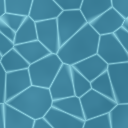
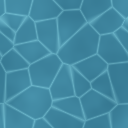
feat(homestead): 손에 든 씨앗, 낚싯줄, 묵은 밭, 다 된 공사는 칸을 비움
origin: 吏곸젒 洹몃┝ (肄붾뱶 ?앹꽦)

diff --git a/Assets/_WitchMendokusai/Domain/Homestead/Stage/VillageStage.Fields.cs b/Assets/_WitchMendokusai/Domain/Homestead/Stage/VillageStage.Fields.cs
@@ -60,6 +60,7 @@ namespace WitchMendokusai
 		private sealed class PlotView
 		{
 			public GameObject Spot;
+			public GameObject Wild;
 			public GameObject Dry;
 			public GameObject Wet;
 			public HomesteadSprite Crop;
@@ -106,12 +107,26 @@ namespace WitchMendokusai
 				int index = i;
 				Vector3 position = PlotPosition(i);
 				PlotView view = new();
+				view.Wild = WildBody(i).Build("PlotWild", outdoor, position, index * 47f % 20f - 10f, castShadow: false);
 				view.Dry = PlotBody(new Color(1f, 0.92f, 0.82f)).Build("Plot", outdoor, position, index * 47f % 20f - 10f, castShadow: false);
 				view.Wet = PlotBody(new Color(0.62f, 0.56f, 0.56f)).Build("PlotWet", outdoor, position, index * 47f % 20f - 10f, castShadow: false);
 				view.Crop = HomesteadSprite.Create(outdoor, position + Vector3.up * 0.14f, null, 1f);
 				view.Spot = HomesteadSpot.Create(outdoor, position, "PlotSpot", () => PlotName(index), () => PlotRole(index), () => UsePlot(index)).gameObject;
 				plots.Add(view);
 			}
+		}
+
+		// 아직 안 간 땅. 낮은 흙에 잡초 몇 포기
+		private static VillageKit WildBody(int seed)
+		{
+			VillageKit kit = new();
+			kit.Prism(Art.Soil, new Color(0.86f, 0.9f, 0.7f), new Vector3(0f, -0.05f, 0f), new Vector3(1.6f, 0.08f, 1.45f), 9, 0.9f);
+			for (int i = 0; i < 4; i++)
+			{
+				float angle = seed * 1.3f + i * 1.7f;
+				kit.Prism(Art.Leaf, new Color(0.9f, 1f, 0.72f), new Vector3(Mathf.Cos(angle) * 0.45f, 0f, Mathf.Sin(angle) * 0.4f), new Vector3(0.2f, 0.16f, 0.2f), 6, 0.2f);
+			}
+			return kit;
 		}
 
 		// 도톰한 이랑 셋. 네모 칸이 아니라 두둑으로 읽히게
@@ -138,7 +153,7 @@ namespace WitchMendokusai
 			switch (Sim.PhaseOf(plot))
 			{
 				case PlotPhase.Empty:
-					return "심기";
+					return CanSowHeld ? $"{Catalog.Get<CropDef>(heldCrop).Name} 심기" : "씨앗 고르기";
 				case PlotPhase.Ripe:
 					return "거두기";
 				default:
@@ -175,7 +190,10 @@ namespace WitchMendokusai
 			switch (Sim.PhaseOf(plot))
 			{
 				case PlotPhase.Empty:
-					AskSeed(index);
+					if (CanSowHeld)
+						Sow(index, heldCrop);
+					else
+						AskSeed(index);
 					break;
 				case PlotPhase.Ripe:
 					if (Report(Sim.Harvest(index, manager.Season)))
@@ -193,12 +211,37 @@ namespace WitchMendokusai
 			}
 		}
 
+		// 한 번 고른 씨앗은 손에 남아 다음 칸에 바로 심음. 바꾸려면 텃밭 창고에서
+		private string heldCrop = string.Empty;
+
+		private bool CanSowHeld => heldCrop.Length > 0 && Sim.Count(Catalog.Get<CropDef>(heldCrop).Seed) > 0;
+
+		private void Sow(int index, string cropId)
+		{
+			if (Report(Sim.Plant(index, cropId)) == false)
+				return;
+			UiSfx.Play(UiSfxEvent.Confirm);
+			StartCoroutine(Pop(plots[index].Dry.transform));
+		}
+
 		private void AskSeed(int index)
 		{
 			manager.Panels.Seeds.Ask(cropId =>
 			{
-				if (Report(Sim.Plant(index, cropId)))
-					manager.Panels.ClosePanel();
+				heldCrop = cropId;
+				manager.Panels.ClosePanel();
+				Sow(index, cropId);
+			});
+			manager.Panels.Show(HomesteadPanelType.Seeds);
+		}
+
+		private void ChooseSeed()
+		{
+			manager.Panels.Seeds.Ask(cropId =>
+			{
+				heldCrop = cropId;
+				manager.Panels.ClosePanel();
+				Say($"{Catalog.Get<CropDef>(cropId).Name} 씨앗을 듭니다.");
 			});
 			manager.Panels.Show(HomesteadPanelType.Seeds);
 		}
@@ -223,6 +266,7 @@ namespace WitchMendokusai
 				PlotView view = plots[i];
 				bool open = i < Sim.State.Plots.Count;
 				view.Spot.SetActive(open);
+				view.Wild.SetActive(open && Sim.State.Plots[i].Tilled == false);
 				if (open == false)
 				{
 					view.Dry.SetActive(false);

diff --git a/Assets/_WitchMendokusai/Domain/Homestead/Stage/VillageStage.Water.cs b/Assets/_WitchMendokusai/Domain/Homestead/Stage/VillageStage.Water.cs
@@ -10,6 +10,7 @@ namespace WitchMendokusai
 		private const string POND = "pond";
 		private const string STREAM = "stream";
 		private const int STREAM_DOCK_LEVEL = 2;
+		private const int LINE_POINTS = 10;
 
 		[Header("Water")]
 		[SerializeField] private Vector2 waterFlow = new(0.012f, 0.02f);
@@ -21,6 +22,9 @@ namespace WitchMendokusai
 		[SerializeField] private Vector3 streamSpot = new(24.4f, 0f, -1.4f);
 		[SerializeField] private float resultSeconds = 1.6f;
 		[SerializeField] private float floatHeight = 0.5f;
+		[SerializeField] private float lineWidth = 0.02f;
+		[SerializeField] private float lineSag = 0.5f;
+		[SerializeField] private Vector3 rodTip = new(0.4f, 0.9f, 0f);
 
 		private Material waterMaterial;
 		private FishingDuel duel;
@@ -28,6 +32,7 @@ namespace WitchMendokusai
 		private bool reelHeld;
 		private float resultTimer;
 		private HomesteadSprite bobber;
+		private LineRenderer fishingLine;
 		private GameObject streamSpotObject;
 
 		private void BuildWater()
@@ -65,6 +70,12 @@ namespace WitchMendokusai
 			capsule.height = pondRadius * 2f + 4f;
 			bobber = HomesteadSprite.Create(outdoor, pondCenter, Art.Icon("bobber"), floatHeight, 0.05f);
 			bobber.gameObject.SetActive(false);
+			fishingLine = new GameObject("FishingLine").AddComponent<LineRenderer>();
+			fishingLine.transform.SetParent(outdoor, false);
+			fishingLine.sharedMaterial = Art.Cloth;
+			fishingLine.widthMultiplier = lineWidth;
+			fishingLine.positionCount = LINE_POINTS;
+			fishingLine.enabled = false;
 			streamSpotObject = HomesteadSpot.Create(outdoor, streamSpot, "StreamSpot", () => "개울", () => "낚시", () => StartFishing(STREAM)).gameObject;
 		}
 
@@ -123,7 +134,10 @@ namespace WitchMendokusai
 			inputManager.UnregisterInputEvent(InputEventType.Submit, InputEventResponseType.Canceled, ReleaseReel);
 			inputManager.UnregisterInputEvent(InputEventType.Cancel, InputEventResponseType.Performed, StopFishing);
 			if (bobber != null)
+			{
 				bobber.gameObject.SetActive(false);
+				fishingLine.enabled = false;
+			}
 			manager.Hud.ShowDuel(false);
 		}
 
@@ -138,6 +152,7 @@ namespace WitchMendokusai
 					StopFishing();
 				return;
 			}
+			DrawLine();
 			FishingPhase before = duel.Phase;
 			bool reeling = reelHeld || inputManager.IsMouseLeftButtonPressed;
 			if (inputManager.IsMouseLeftButtonPressed && duel.Phase == FishingPhase.Bite)
@@ -151,6 +166,20 @@ namespace WitchMendokusai
 			}
 			if (duel.IsOver)
 				FinishFishing();
+		}
+
+		// 팽팽할수록 곧게
+		private void DrawLine()
+		{
+			fishingLine.enabled = true;
+			Vector3 from = playerProvider.CurrentObject.transform.position + rodTip;
+			Vector3 to = bobber.transform.position + Vector3.up * floatHeight * 0.8f;
+			float sag = lineSag * (1f - duel.Tension);
+			for (int i = 0; i < LINE_POINTS; i++)
+			{
+				float ratio = i / (LINE_POINTS - 1f);
+				fishingLine.SetPosition(i, Vector3.Lerp(from, to, ratio) + Vector3.down * (Mathf.Sin(ratio * Mathf.PI) * sag));
+			}
 		}
 
 		private void FinishFishing()

diff --git a/Assets/_WitchMendokusai/Domain/Homestead/Stage/VillageStage.Sites.cs b/Assets/_WitchMendokusai/Domain/Homestead/Stage/VillageStage.Sites.cs
@@ -61,7 +61,36 @@ namespace WitchMendokusai
 				return Sim.IsWorkDone(work) ? "가림막 걷기" : $"공사 중 {HomesteadText.Minutes(work.ReadyAt - Sim.State.Minutes)}";
 			if (Sim.IsBuilt(id) == false)
 				return "무너진 자리";
-			return Sim.IsOpen(id) ? "쓰기" : "맡을 사람을 기다림";
+			return Sim.IsOpen(id) ? VerbOf(id) : "맡을 사람을 기다림";
+		}
+
+		private static string VerbOf(string id)
+		{
+			switch (id)
+			{
+				case "farm":
+					return "씨앗 고르기";
+				case "workshop":
+					return "만들기";
+				case "dock":
+					return "낚시";
+				case "quarry":
+					return "내려가기";
+				case "museum":
+					return "기증과 손질";
+				case "tailor":
+					return "옷 고르기";
+				case "ranch":
+					return "동물 돌보기";
+				case "training":
+					return "강화";
+				case "smithy":
+					return "도구 벼리기";
+				case "shop":
+					return "사고팔기";
+				default:
+					return "둘러보기";
+			}
 		}
 
 		private void UseSite(string id)
@@ -101,7 +130,7 @@ namespace WitchMendokusai
 			switch (id)
 			{
 				case "farm":
-					manager.Panels.Show(HomesteadPanelType.Seeds);
+					ChooseSeed();
 					break;
 				case "workshop":
 					manager.Panels.Show(HomesteadPanelType.Store, StorePage.TAB_CRAFT);

diff --git a/DomainSDK/Homestead/HomesteadSim.Village.cs b/DomainSDK/Homestead/HomesteadSim.Village.cs
@@ -67,6 +67,9 @@ namespace WitchMendokusai.DomainSDK.Homestead
 
 		public bool IsWorkDone(WorkState work) => State.Minutes >= work.ReadyAt;
 
+		// 다 되고 가림막만 남은 자리는 칸을 차지하지 않음
+		public int BusyWorks => State.Works.FindAll(work => IsWorkDone(work) == false).Count;
+
 		public bool TryGetNextLevel(string buildingId, out BuildingLevelDef next)
 		{
 			List<BuildingLevelDef> levels = Catalog.Get<BuildingDef>(buildingId).Levels;
@@ -89,7 +92,7 @@ namespace WitchMendokusai.DomainSDK.Homestead
 			{
 				return HomesteadResult.Fail(HomesteadFailure.TownHallTooLow);
 			}
-			if (State.Works.Count >= WorkSlots)
+			if (BusyWorks >= WorkSlots)
 			{
 				return HomesteadResult.Fail(HomesteadFailure.Busy);
 			}

diff --git a/Assets/_WitchMendokusai/Domain/Homestead/UI/HomesteadHud.cs b/Assets/_WitchMendokusai/Domain/Homestead/UI/HomesteadHud.cs
@@ -215,6 +215,7 @@ namespace WitchMendokusai
 		{
 			goalShown = visible;
 			goal.EnableInClassList($"{BLOCK}--none", visible == false);
+			goal.userData = null;
 			RefreshGoal();
 		}
 
@@ -227,7 +228,9 @@ namespace WitchMendokusai
 				return;
 			goal.userData = key;
 			goal.Clear();
-			if (Sim.TryGetNextTownHall(out TownHallDef next) == false)
+			bool hasNext = Sim.TryGetNextTownHall(out TownHallDef next);
+			goal.EnableInClassList($"{BLOCK}--none", hasNext == false);
+			if (hasNext == false)
 				return;
 			MakeLabel("goal-title", goal, next.Name);
 			foreach (KeyValuePair<string, int> pair in next.Cost.Goods)

diff --git a/Assets/_WitchMendokusai/Domain/Homestead/UI/Pages/VillagePage.cs b/Assets/_WitchMendokusai/Domain/Homestead/UI/Pages/VillagePage.cs
@@ -20,7 +20,7 @@ namespace WitchMendokusai
 		public override string Title => "회관";
 		protected override string IconKey => HALL_ID;
 		public override IReadOnlyList<string> Tabs => TABS;
-		public override string Status => $"{Sim.TownHallDef(Sim.State.TownHall).Name}, 공사 {Sim.State.Works.Count} / {Sim.WorkSlots}";
+		public override string Status => $"{Sim.TownHallDef(Sim.State.TownHall).Name}, 공사 {Sim.BusyWorks} / {Sim.WorkSlots}";
 
 		public override List<HomesteadEntry> Entries(int tab)
 		{

diff --git a/Assets/_WitchMendokusai/Domain/Homestead/UI/UIRoomPanel.Plan.cs b/Assets/_WitchMendokusai/Domain/Homestead/UI/UIRoomPanel.Plan.cs
@@ -59,6 +59,7 @@ namespace WitchMendokusai
 			VisualElement element = new();
 			element.AddToClassList(BLOCK + "piece");
 			element.AddToClassList(BLOCK + "piece--" + furniture.Layer.ToString().ToLowerInvariant());
+			element.AddToClassList(BLOCK + "shape--" + furniture.Shape.Replace('_', '-'));
 			Make(BLOCK + "piece-icon", element).style.backgroundImage = new StyleBackground(Art.Icon(furniture.Id));
 			Make(BLOCK + "piece-front", element);
 			plan.Add(element);

diff --git a/Assets/_WitchMendokusai/Domain/Homestead/UI/UIRoomPanel.cs b/Assets/_WitchMendokusai/Domain/Homestead/UI/UIRoomPanel.cs
@@ -94,6 +94,7 @@ namespace WitchMendokusai
 			VisualElement planBox = Make(BLOCK + "plan-box", rightBody);
 			plan = new VisualElement();
 			plan.AddToClassList(BLOCK + "plan");
+			plan.style.backgroundImage = new StyleBackground((Texture2D)Art.Wood.mainTexture);
 			planBox.Add(plan);
 			Make(BLOCK + "door", plan);
 			hintText = MakeLabel(BLOCK + "hint", rightBody);
